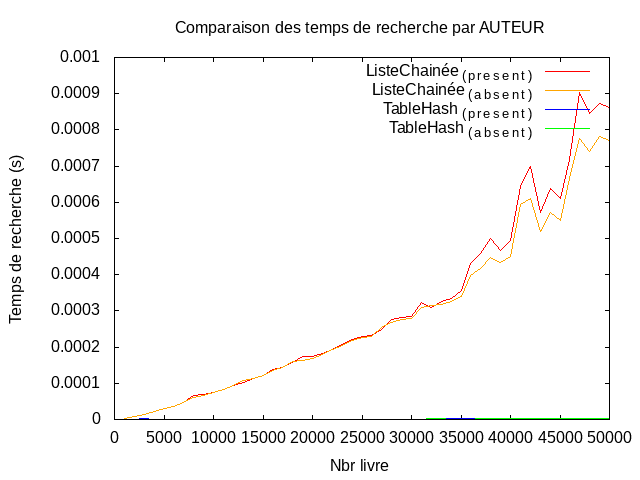
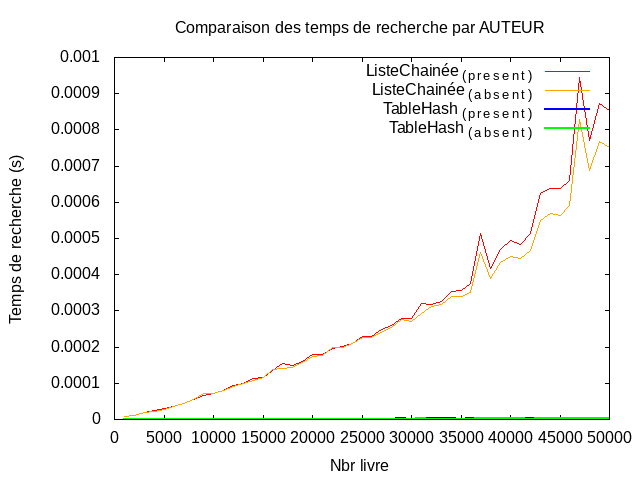
GROSSIR LES TRAITS DE HASH CAR INVISIBLE

diff --git a/TME3_4/compareSearchTime.c b/TME3_4/compareSearchTime.c
@@ -33,7 +33,7 @@ int main(int argc, char *argv[]){
     char * entete2="set title \"Comparaison des temps de recherche par TITRE\"\nset xlabel \"Nbr livre\"\nset ylabel \"Temps de recherche (s)\"\nplot \"compareSearchByTitle.txt\" using 1:2 title \"ListeChainée_(_p_r_e_s_e_n_t_)_\" with lines lc rgb \"red\" lw 1.2\nset term png\nset output \"searchByTitle.png\"\nreplot \"compareSearchByTitle.txt\" using 1:3 title \"ListeChainée_(_a_b_s_e_n_t_)_\" with lines lc rgb \"orange\" lw 1.2 ,\"compareSearchByTitle.txt\" using 1:4 title \"TableHash_(_p_r_e_s_e_n_t_)_\" with lines lc rgb \"blue\" lw 1.2 ,\"compareSearchByTitle.txt\" using 1:5 title \"TableHash_(_a_b_s_e_n_t_)_\" with lines lc rgb \"green\" lw 1.2\n";
     fprintf(sortie2,"%s",entete2);
 
-    char * entete3="set title \"Comparaison des temps de recherche par AUTEUR\"\nset xlabel \"Nbr livre\"\nset ylabel \"Temps de recherche (s)\"\nplot \"compareSearchByAutor.txt\" using 1:2 title \"ListeChainée_(_p_r_e_s_e_n_t_)_\" with lines lc rgb \"red\" lw 1.2\nset term png\nset output \"searchByAutor.png\"\nreplot \"compareSearchByAutor.txt\" using 1:3 title \"ListeChainée_(_a_b_s_e_n_t_)_\" with lines lc rgb \"orange\" lw 1.2 ,\"compareSearchByAutor.txt\" using 1:4 title \"TableHash_(_p_r_e_s_e_n_t_)_\" with lines lc rgb \"blue\" lw 1.2 ,\"compareSearchByAutor.txt\" using 1:5 title \"TableHash_(_a_b_s_e_n_t_)_\" with lines lc rgb \"green\" lw 1.2\n";
+    char * entete3="set title \"Comparaison des temps de recherche par AUTEUR\"\nset xlabel \"Nbr livre\"\nset ylabel \"Temps de recherche (s)\"\nplot \"compareSearchByAutor.txt\" using 1:2 title \"ListeChainée_(_p_r_e_s_e_n_t_)_\" with lines lc rgb \"red\" lw 1.2\nset term png\nset output \"searchByAutor.png\"\nreplot \"compareSearchByAutor.txt\" using 1:3 title \"ListeChainée_(_a_b_s_e_n_t_)_\" with lines lc rgb \"orange\" lw 1.2 ,\"compareSearchByAutor.txt\" using 1:4 title \"TableHash_(_p_r_e_s_e_n_t_)_\" with lines lc rgb \"blue\" lw 2.5 ,\"compareSearchByAutor.txt\" using 1:5 title \"TableHash_(_a_b_s_e_n_t_)_\" with lines lc rgb \"green\" lw 2\n";
     fprintf(sortie3,"%s",entete3);
 
     for(int nbL = 1000;nbL<=50000;nbL+=1000){
